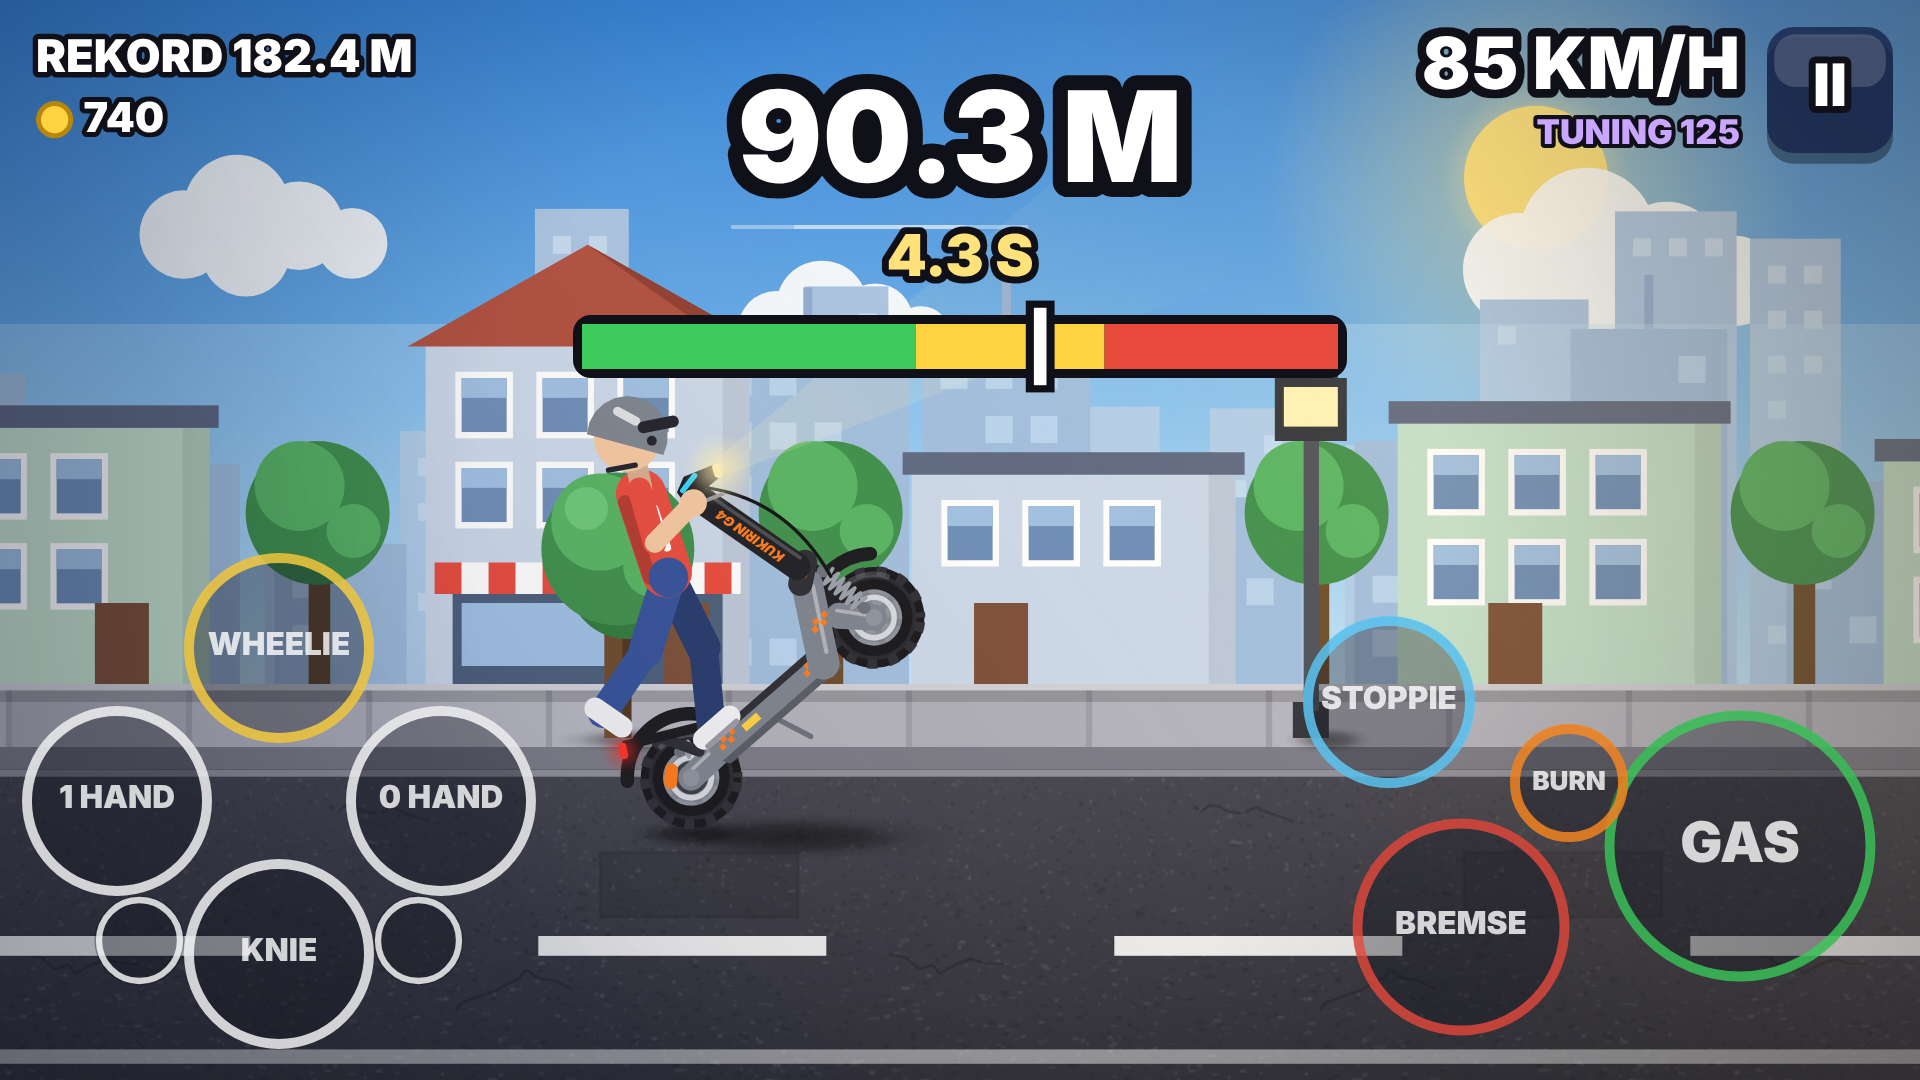
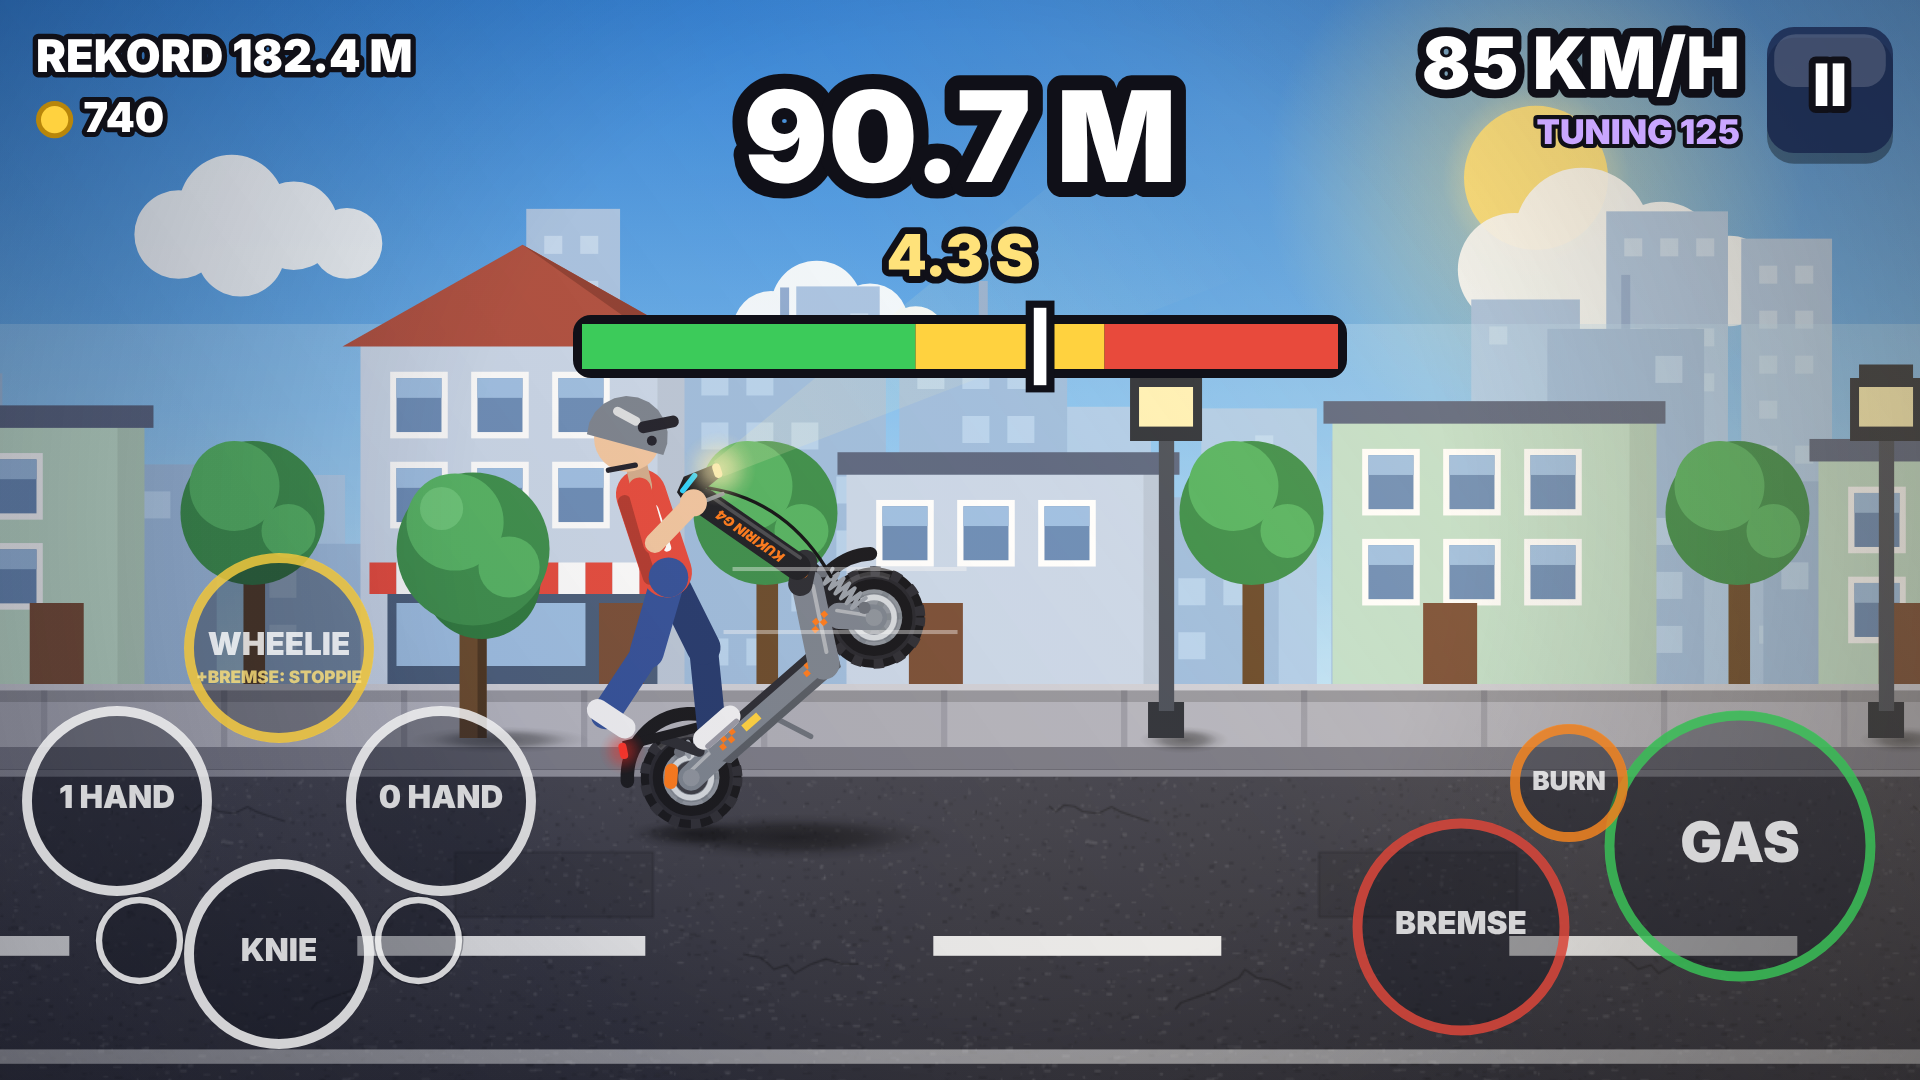
Handy-Version: ein Knopf für Wheelie und Stoppie
WHEELIE-Knopf allein = Wheelie, mit gehaltener Bremse = Stoppie. Der
eigene STOPPIE-Knopf fällt weg.

Claude-Session: https://claude.ai/code/session_01Sb8gd8WMWDHa6kn2fSYihm

diff --git a/handy/www/game.js b/handy/www/game.js
@@ -342,7 +342,7 @@
   function layoutPads() {
     const cx = IL + 31, cy = H - 31, ax = W - IR - 20, ay = H - 26, bx = ax - 31, by = H - 17;
     pads = [
-      { bit: BTN_UP, x: cx, y: cy - 17, r: 10.5, t: 'WHEELIE', c: '#ffd23f' },
+      { bit: BTN_UP, x: cx, y: cy - 17, r: 10.5, t: 'WHEELIE', t2: '+BREMSE: STOPPIE', c: '#ffd23f' },
       { bit: BTN_LEFT, x: cx - 18, y: cy, r: 10.5, t: '1 HAND', c: '#ffffff' },
       { bit: BTN_RIGHT, x: cx + 18, y: cy, r: 10.5, t: '0 HAND', c: '#ffffff' },
       { bit: BTN_DOWN, x: cx, y: cy + 17, r: 10.5, t: 'KNIE', c: '#ffffff' },
@@ -351,7 +351,6 @@
       { bit: BTN_A, x: ax, y: ay, r: 15, t: 'GAS', c: '#3ccb5a' },
       { bit: BTN_B, x: bx, y: by, r: 12, t: 'BREMSE', c: '#e84a3c' },
       { bit: BTN_A | BTN_B, x: (ax + bx) / 2 - 3.5, y: (ay + by) / 2 - 11.5, r: 6.5, t: 'BURN', c: '#ff8a1f' },
-      { bit: BTN_STOP, x: bx - 8, y: by - 25, r: 9.5, t: 'STOPPIE', c: '#5fd0ff' },
     ];
   }
   function readPads() {
@@ -1376,7 +1375,9 @@
   function updatePlay(dt) {
     const gas = (held & BTN_A) !== 0, brake = (held & BTN_B) !== 0, ay = axleY();
     const dual = store.tune[store.scooter][DUAL] > 0;
-    if (pressed & BTN_STOP) {
+    // Ein Knopf für beides: WHEELIE-Knopf allein = Wheelie, mit gehaltener Bremse = Stoppie
+    const upStop = (pressed & BTN_UP) && (G.smode || (brake && !G.wmode && G.th === 0));
+    if ((pressed & BTN_STOP) || upStop) {
       if (G.smode) {
         if (G.ps > 0) G.slanding = true;                                     // nochmal: sanft landen
         else G.smode = false;
@@ -1389,7 +1390,7 @@
       }
     }
     const inS = G.smode || G.ps > 0;            // im Stoppie
-    if ((pressed & BTN_UP) && !inS) {
+    if ((pressed & BTN_UP) && !inS && !upStop) {
       if (!G.wmode) { G.wmode = true; G.landing = false; G.om += POP; }      // Vorderrad hochreißen
       else if (G.th > 0) G.landing = true;                                   // nochmal: sanft landen
       else G.wmode = false;
@@ -1921,6 +1922,7 @@
       ctx.beginPath(); ctx.arc(b.x, b.y, b.r - 0.5, 0, 2 * PI); ctx.stroke();
       if (b.t) text(b.t, b.x, b.y - (b.r > 12 ? 3.2 : b.r > 8 ? 2.0 : 1.6), b.r > 12 ? 6.2 : b.r > 8 ? 3.5 : 2.9,
         on ? '#101018' : '#ffffff', 1, false);
+      if (b.t2) text(b.t2, b.x, b.y + 2.4, 1.9, on ? '#101018' : '#ffe27a', 1, false);
       ctx.globalAlpha = 1;
     }
   }
@@ -2095,7 +2097,7 @@
     }
     if (usedTouch || pointers.size) drawPads();
     else if (st === PLAY && G.v === 0 && !G.burn)
-      text('TASTEN: X = GAS   C = BREMSE   S = STOPPIE   PFEILE = WHEELIE / TRICKS', cx, H - 9, 4, 'rgba(255,255,255,0.85)', 1);
+      text('TASTEN: X = GAS   C = BREMSE   OBEN = WHEELIE   C + OBEN = STOPPIE   PFEILE = TRICKS', cx, H - 9, 4, 'rgba(255,255,255,0.85)', 1);
     if (st === CRASH && G.crashT > 1.0 && button(cx - 22, 58, 44, 13, 'MENÜ', { size: 6 })) gotoMenu();
   }
 

diff --git a/handy/README.md b/handy/README.md
@@ -16,10 +16,10 @@ seine eigenen. Neu dazu kommt der **Stoppie**.
 ## Was ist neu?
 
 * **Stoppie:** Das Heck geht hoch und der Scooter rollt nur noch auf dem
-  Vorderrad. Ab 12 km/h **STOPPIE** drücken, dann balancieren:
+  Vorderrad. Ab 12 km/h **BREMSE halten und WHEELIE drücken** (ein Knopf für beides: ohne Bremse gibt es einen Wheelie), dann balancieren:
   nur mit der Bremse: **BREMSE halten = Heck höher**, **BREMSE loslassen = Heck runter**. Gas braucht es nicht.
   Im Stoppie treibt der Motor nicht, der Scooter wird also langsamer, und wenn
-  er fast steht, kommt das Heck von selbst runter. Nochmal **STOPPIE** = sanft
+  er fast steht, kommt das Heck von selbst runter. Nochmal **WHEELIE** = sanft
   landen. Zu weit hoch (über 58 Grad), und du fliegst über den Lenker.
   Tricks (1 Hand, 0 Hand, Knie) gehen auch, aber mit weniger Händen wirkt die
   Bremse schwächer. Der Stoppie hat einen eigenen Rekord.
@@ -77,10 +77,10 @@ seine eigenen. Neu dazu kommt der **Stoppie**.
   und sprüht Funken (Warnung!). Der Motor klingt wie ein E-Motor (Summen und
   Sirren), dazu kommt Fahrtwind.
 * **Touch-Knöpfe:** links WHEELIE / 1 HAND / 0 HAND / KNIE (die kleinen Kreise
-  unten sind Knie + Hand zusammen), rechts GAS, BREMSE und STOPPIE.
+  unten sind Knie + Hand zusammen), rechts GAS und BREMSE.
   **BURN** drückt Gas und Bremse zusammen: im Stand halten, bis
   „BREMSE LOS = BOOST!" blinkt, dann den Finger **auf GAS schieben** (nicht loslassen).
-* Am Computer geht auch die Tastatur: X = Gas, C = Bremse, S = Stoppie,
+* Am Computer geht auch die Tastatur: X = Gas, C = Bremse, C + Pfeil hoch = Stoppie,
   Pfeile = Wheelie und Tricks, Enter = Start/Pause.
 
 ## Ausprobieren
